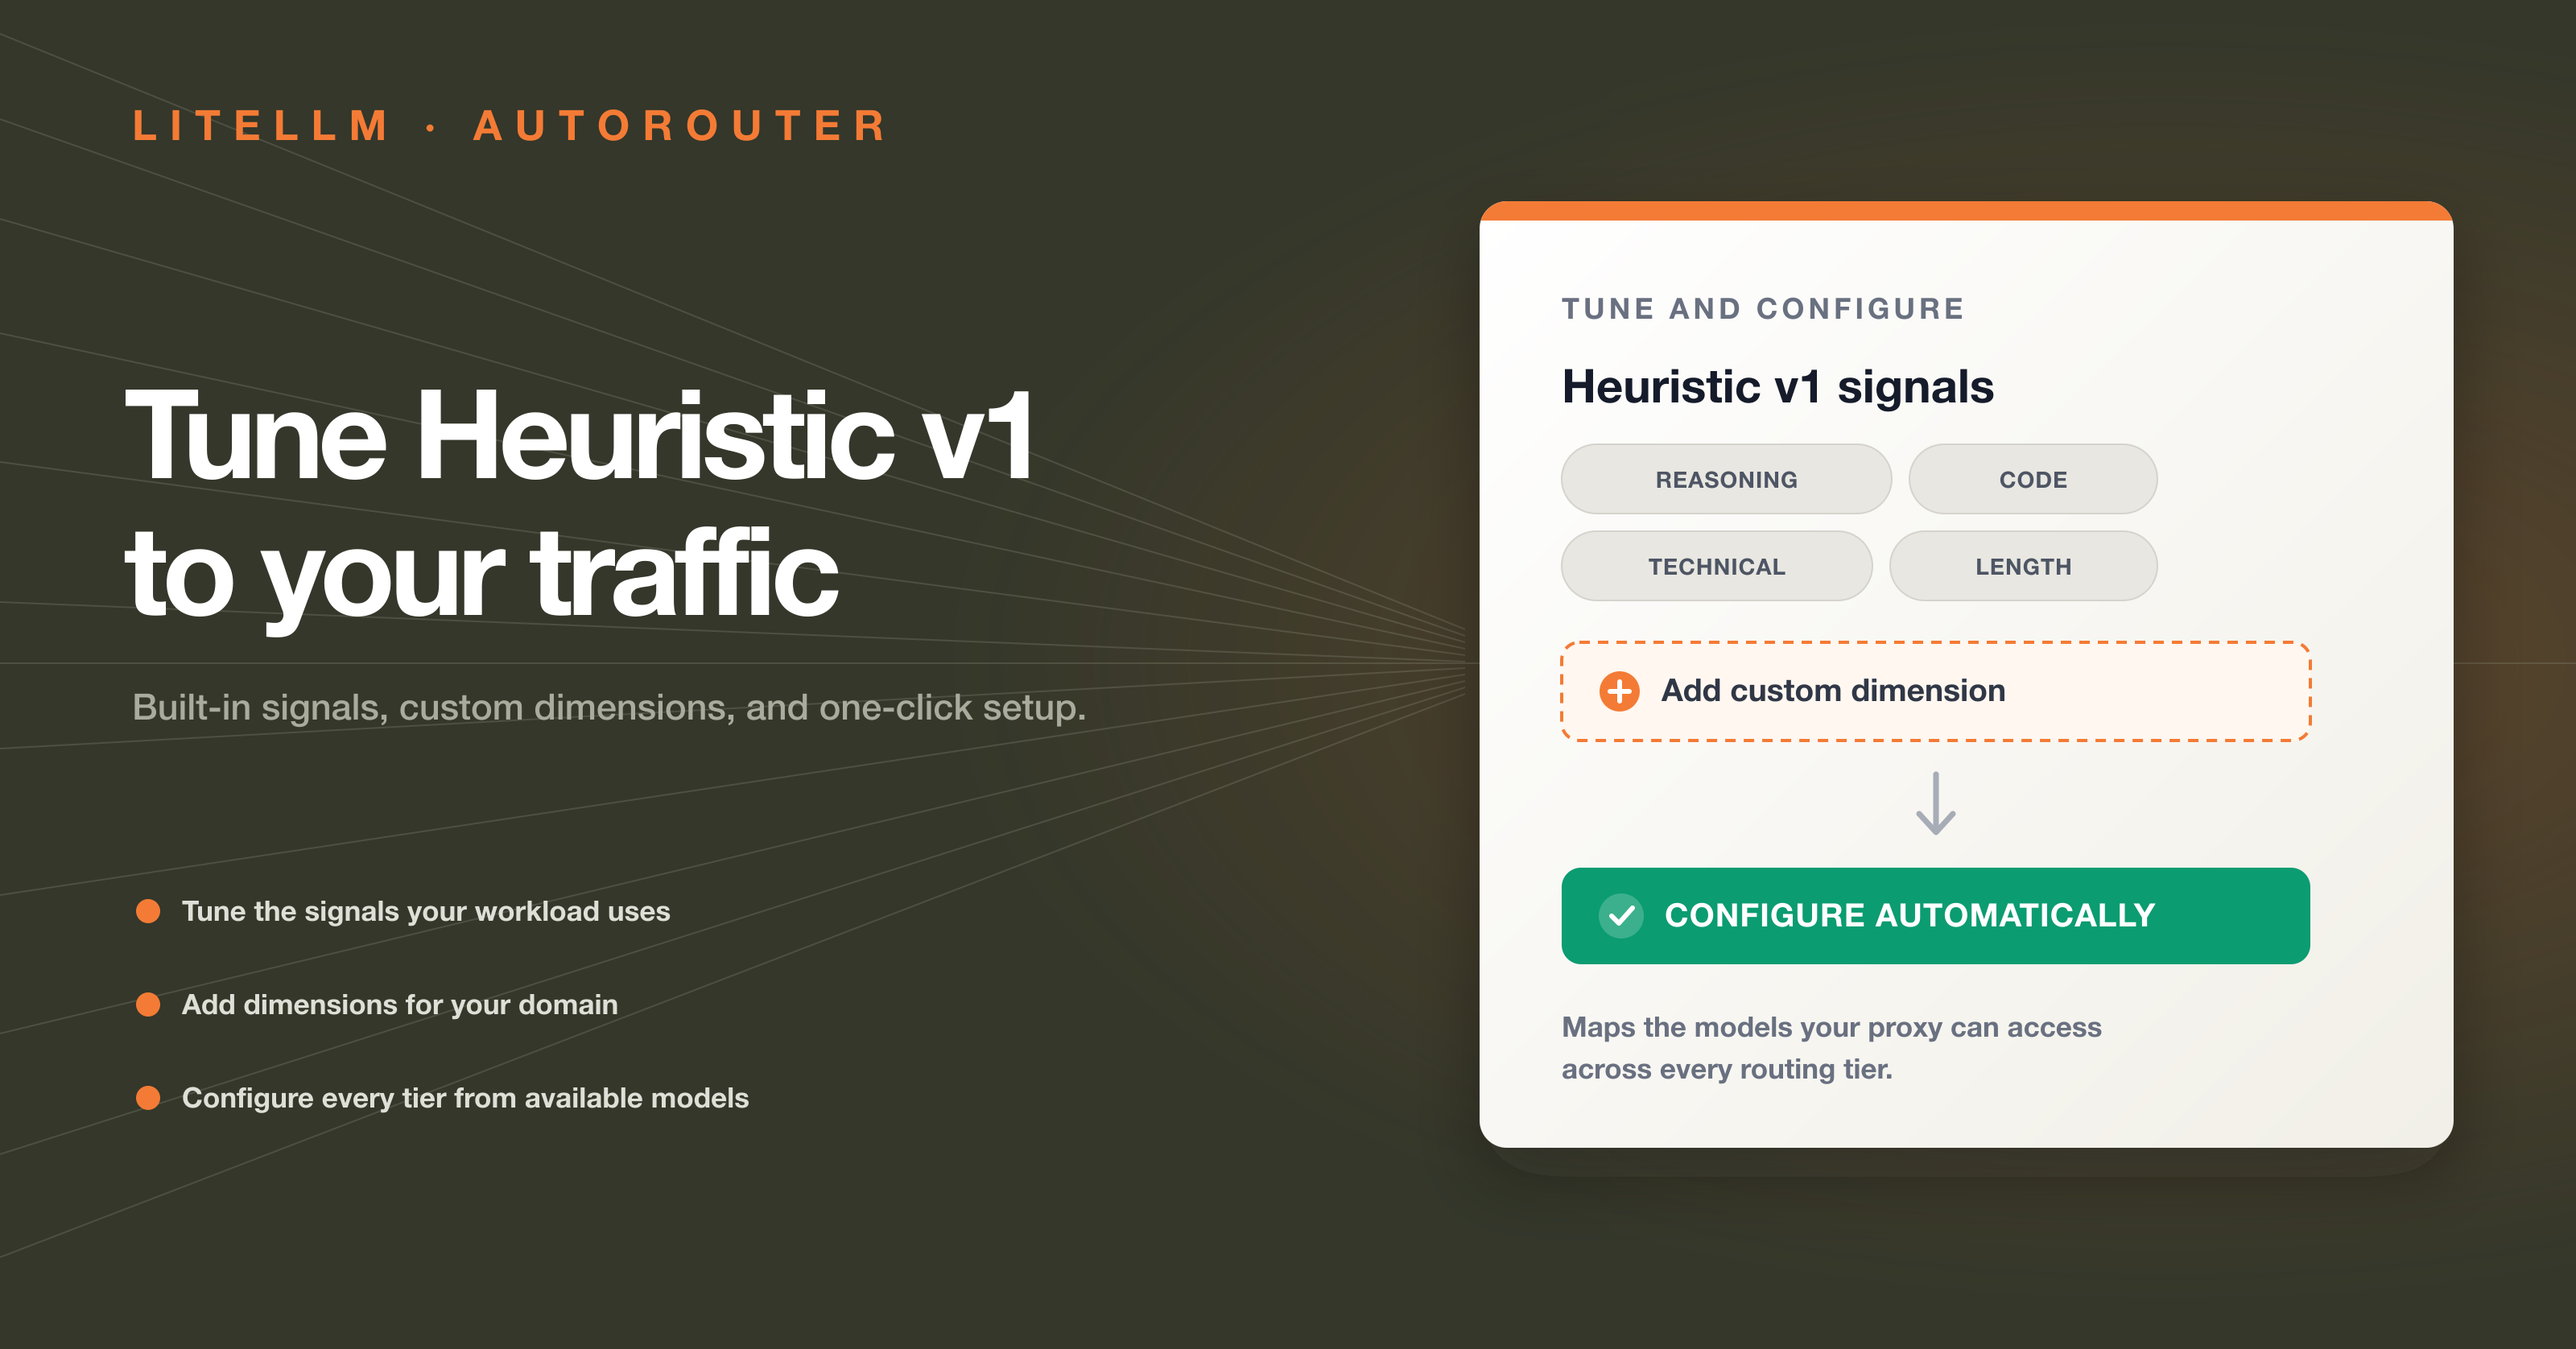
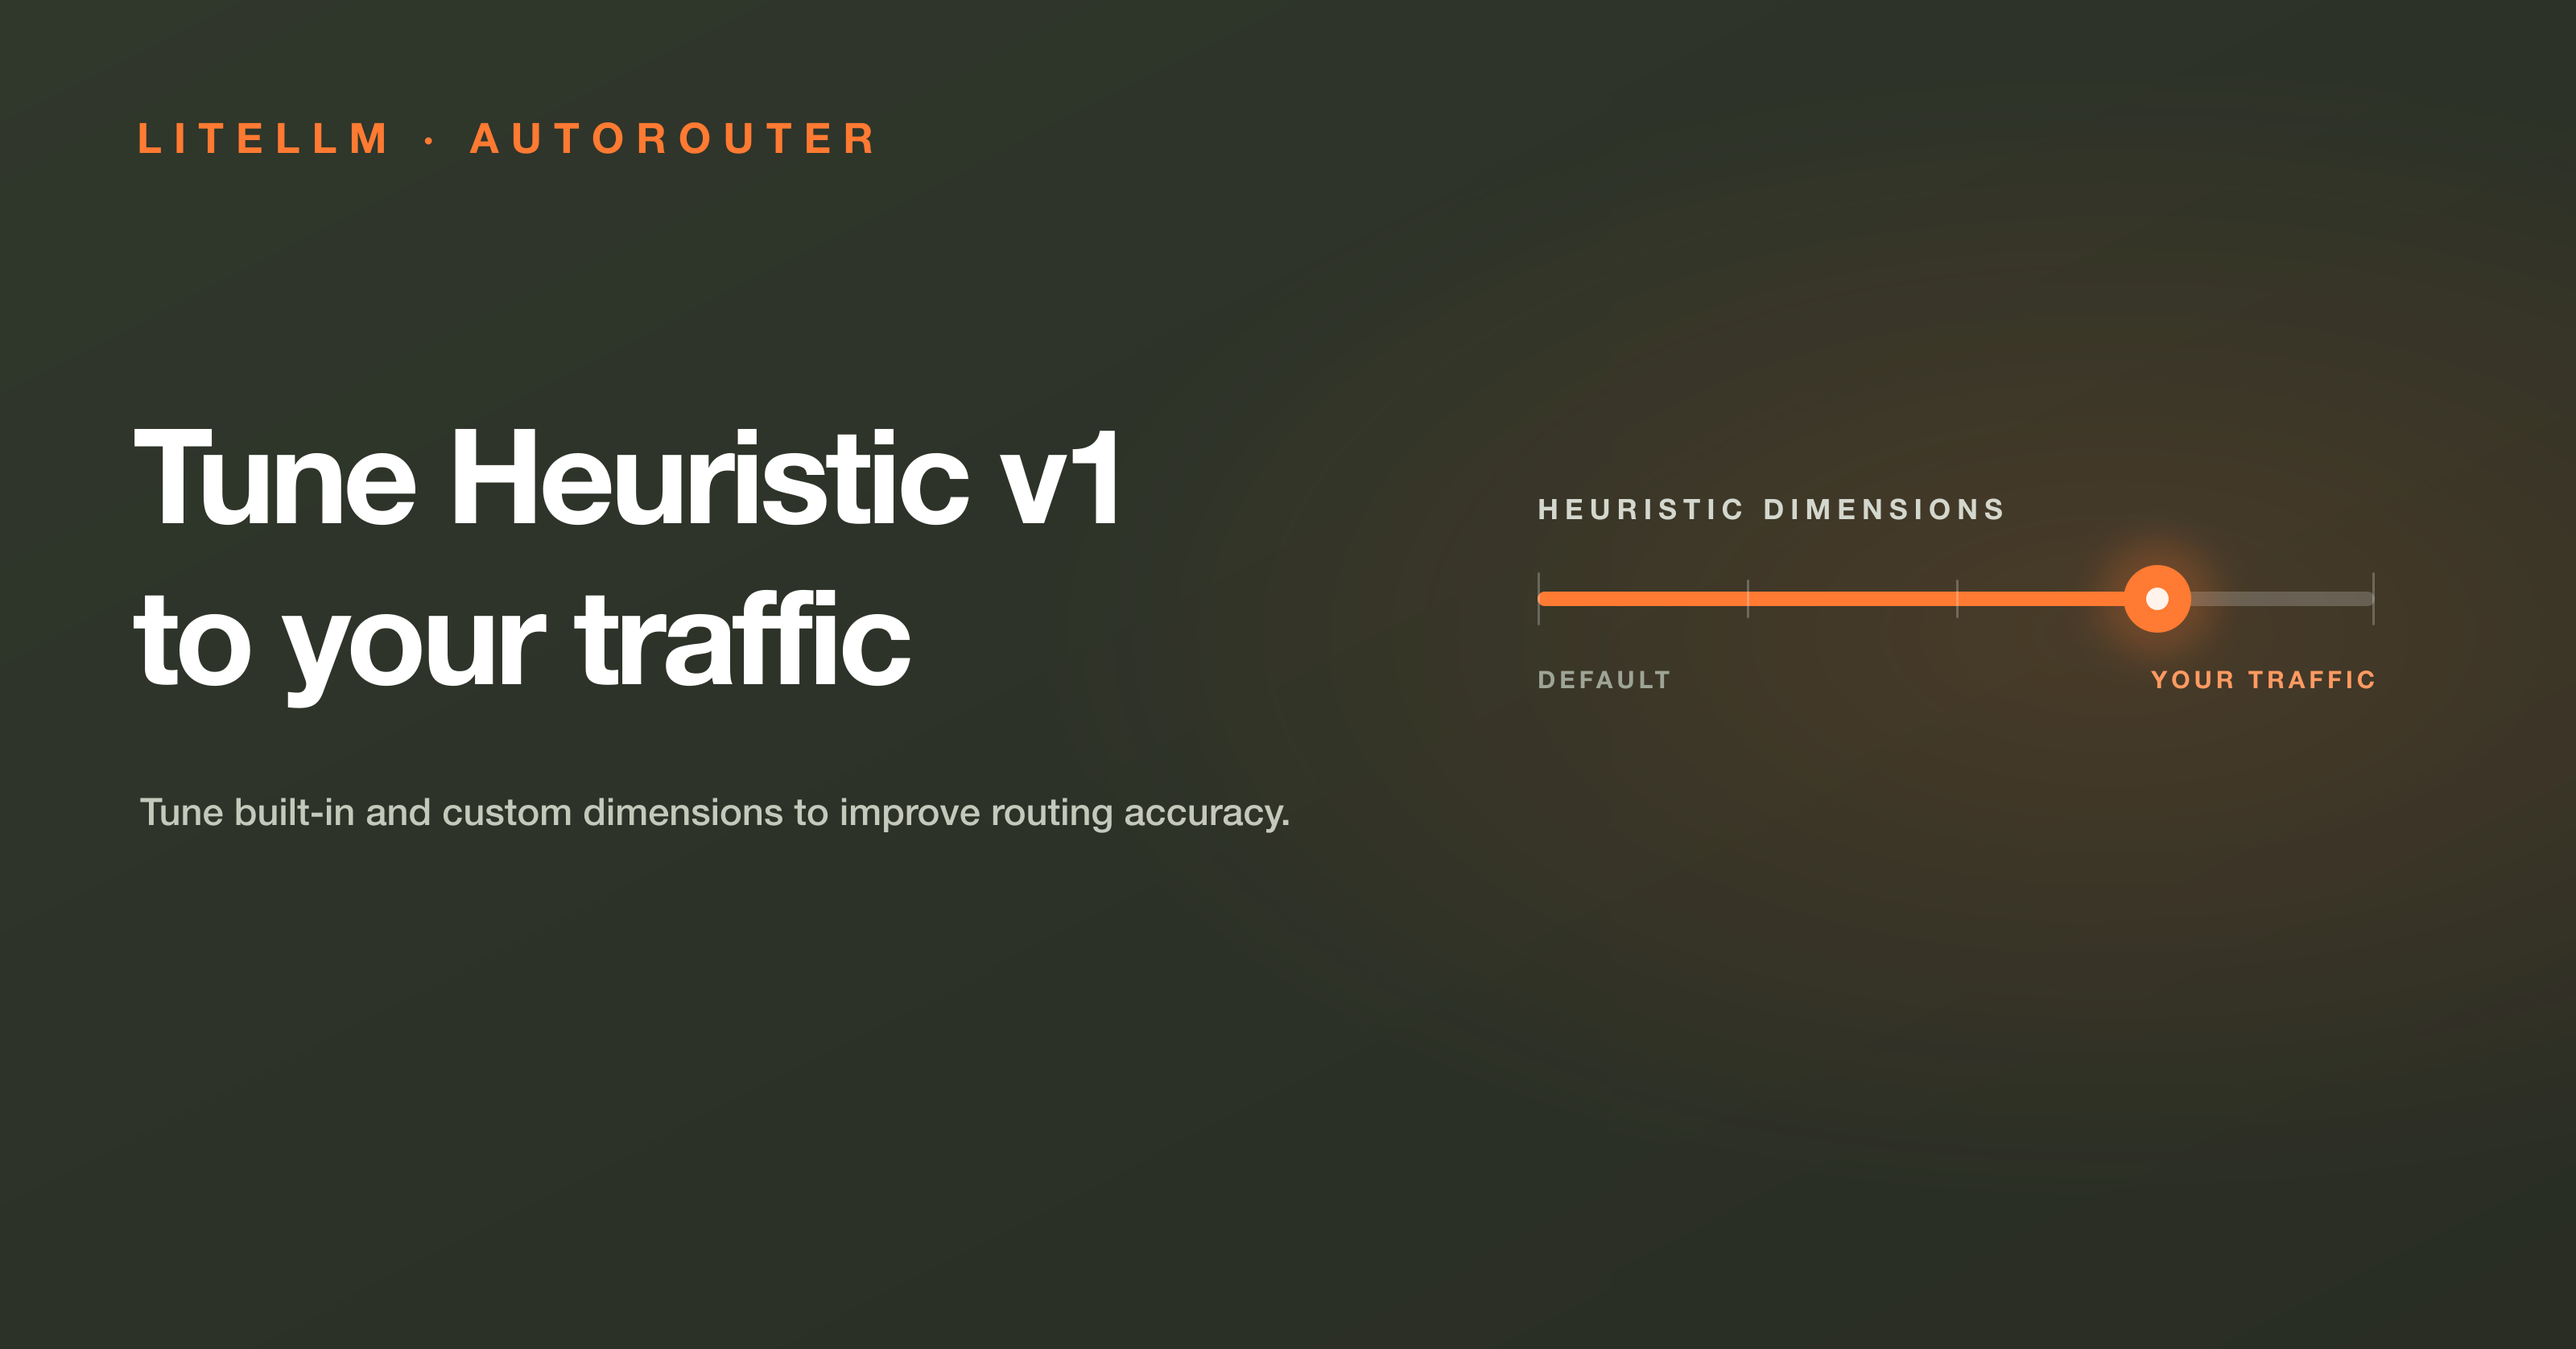
docs(auto-router): simplify tuning blog hero

diff --git a/blog/autorouter_heuristic_v1_tuning/index.md b/blog/autorouter_heuristic_v1_tuning/index.md
@@ -11,7 +11,7 @@ tags: [routing, complexity-router, benchmarks, engineering, product]
 hide_table_of_contents: false
 ---
 
-![AutoRouter Heuristic v1: tune built-in signals, add custom dimensions, and configure routing tiers automatically](./hero.png)
+![Tune AutoRouter Heuristic v1 dimensions to improve routing accuracy for your traffic](./hero.png)
 
 Heuristic v1 scores seven prompt signals, including reasoning language, code, technical terms, and prompt length. You can tune those signals for the traffic your router serves.
 
